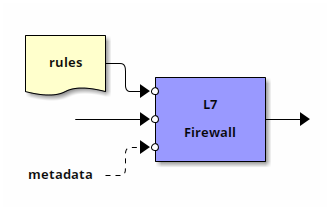
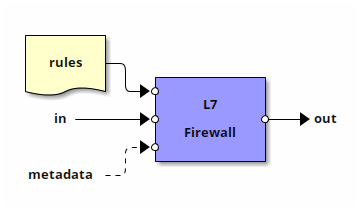
Mostly-complete design document
It is not linked from any other document, so it does not show yet in the
website.

diff --git a/themes/snabbwall/static/css/poole.css b/themes/snabbwall/static/css/poole.css
@@ -404,13 +404,13 @@ a.pagination-item:hover {
 
 figure {
 	text-align: center;
-	border: 1px solid #a88;
+	border: 1px solid #ac4142;
 	border-radius: 5px 5px 0 0;
 	box-shadow: 0 3px 7px #888;
 	padding: 0;
 }
 figure figcaption {
-	background-color: #a88;
+	background-color: #ac4142;
 	color: #fff;
 	display: block;
 	font-size: 85%;

diff --git a/content/design.md b/content/design.md
@@ -3,8 +3,6 @@ Description = ""
 Tags = []
 date = "2015-12-22T23:26:17+02:00"
 title = "Design"
-menu = "main"
-draft = true
 +++
 
 ## Overview
@@ -29,8 +27,8 @@ As a *suite*, it includes a complete firewall program out of the box.
 
 The main components are **L7 Spy** and **L7 Firewall**, both are Snabb Switch applications:
 
-* **L7 Spy** inspects ingress network traffic, identifies related packets to group them in a *related data flow*, and —if possible— determines which application has generated the data flow. This is done with the aid of the [nDPI](http://www.ntop.org/products/deep-packet-inspection/ndpi/) packet inspection library. The information gathered is attached to each packet as *metadata*, and the packets are passed through unmodified.
-* **L7 Firewall** receives a set of filtering *rules*, tries to match ingress packets with each rule, and performs its associated action. The rules can perform matches on the metadata generated by the *L7 Spy* application.
+* **L7 Spy** (or `L7spy` in short) inspects ingress network traffic, identifies related packets to group them in a *related data flow*, and —if possible— determines which application has generated the data flow. This is done with the aid of the [nDPI](http://www.ntop.org/products/deep-packet-inspection/ndpi/) packet inspection library. The information gathered is attached to each packet as *metadata*, and the packets are passed through unmodified.
+* **L7 Firewall** (or `L7fw` in short) receives a set of filtering *rules*, tries to match ingress packets with each rule, and performs its associated action. The rules can perform matches on the metadata generated by the *L7 Spy* application.
 
 
 ## Applications
@@ -39,14 +37,41 @@ The main components are **L7 Spy** and **L7 Firewall**, both are Snabb Switch ap
 
 {{< figure src="/images/diagrams/app-l7spy.png" caption="L7 Spy application" >}}
 
+The **L7 Spy** (`L7spy`) application receives packets from another Snabb Switch application as input, analyzes the packets it receives, and places them unchanged in the output. As a by-product of analyzing the packets, it may generate metadata indicating the kind of application and data payload that the packet contains. This metadata is de-coupled from the original packet data —which remains unchanged— and can be consumed by other Snabb Switch applications-
+
+Each instance of the `L7spy` application maintain an internal *state* which is updated as each packet is scanned. It contains information about previously inspected packets which is used to further improve identification of packets in the future. The *state* is detached from the `L7fw` application and two (or more) instances can share the same state:
+
+{{< figure src="/images/diagrams/app-l7spy-shared-state.png" caption="Using a shared L7 Spy state" >}}
+
+The main use case for a the shared *state* is correlating traffic which belongs to the same application flowing in both “send” and “receive” directions.
+
+
 ### L7 Firewall
 
 {{< figure src="/images/diagrams/app-l7fw.png" caption="L7 Firewall application" >}}
+
+The **L7 Firewall** (`L7fw`) application receives packets from another Snabb Switch application as input, applies a set of packet filtering *rules*, and either *drops*, *rehects*, or *accepts* the packet.
+
+- *Dropping* a packet plainly ignores it, without forwarding it to the *output*. The net effect is the same as if the packet were lost.
+- *Rejecting*, similarly, does not forward it to the *output*, but the sender of the packet is notified about the inability of delivering the packet by transmitting the appropriate ICMP messages to the sender.
+- *Accepting* a packet forwards it to the *output*, effectively letting it pass through the firewall.
+
+Note that the application by itself is unidirectional. While this may seem counterintuitive, allows for greater flexibility:
+
+* Bidirectional filtering —both “send” and “receive” directions— is achieved using two instances with an optionally shared set of *rules*.
+* In many scenarios filtering is done in one direction only, and it is possible to use a single instance of the application — with reduced overhead. For example, most —if not all— of the work done by a firewall in front of a server is to only accept packets for the services provided by the server.
 
 
 ## Programs
 
 The <span class="appname">SnabbWall</span> suite ships with a ready to use program which uses the [L7 Spy]({{< ref "#l7-spy" >}}) and [L7 Firewall]({{< ref "#l7-firewall" >}}) applications to implement a Layer-7 stateful firewall.
 
+This application, runnable using the `snabb wall` command, includes support for the following features:
 
-
+* Loading its configuration and filtering rule sets from from configuration files. The syntax of the configuration files is an [internal DSL](https://en.wikipedia.org/wiki/Domain-specific_language#Usage_patterns) based on Lua. This takes advantage of the fact that the language is particularly well suited for [data description](http://www.lua.org/pil/10.1.html).
+* Support for *dropping*, *rejecting*, or *accepting* packets matched by the filtering rules.
+* Specifying a default policy (*drop*, *reject*, or *accept*) for packets which are not matched by any of the configured filtering rules.
+* Optional logging and accounting of matched packets.
+* Operating in *bypass mode*: using two physical NIC endpoints at each side, the traffic received from both sides is analyzed using [L7spy]({{< ref "#l7-spy" >}}), rules are applied using [L7fw]({{< ref "#l7-firewall" >}}), and packets allowed to pass through the firewall are put into the wire at the other side completely unchanged.
+* Operating in *hosted mode*: the firewall appears to the host system as a pair of network interfaces (one for each end). In this mode the host system needs to be configured accordingly to forwarding packets into and out of the firewall.
+* Operating in *kitchen sink mode*: the firewall passively scans all input packets and gathers information about them, without forwarding them to the output. This can be used together with the logging and accounting support to obtain per-application network statistics.
